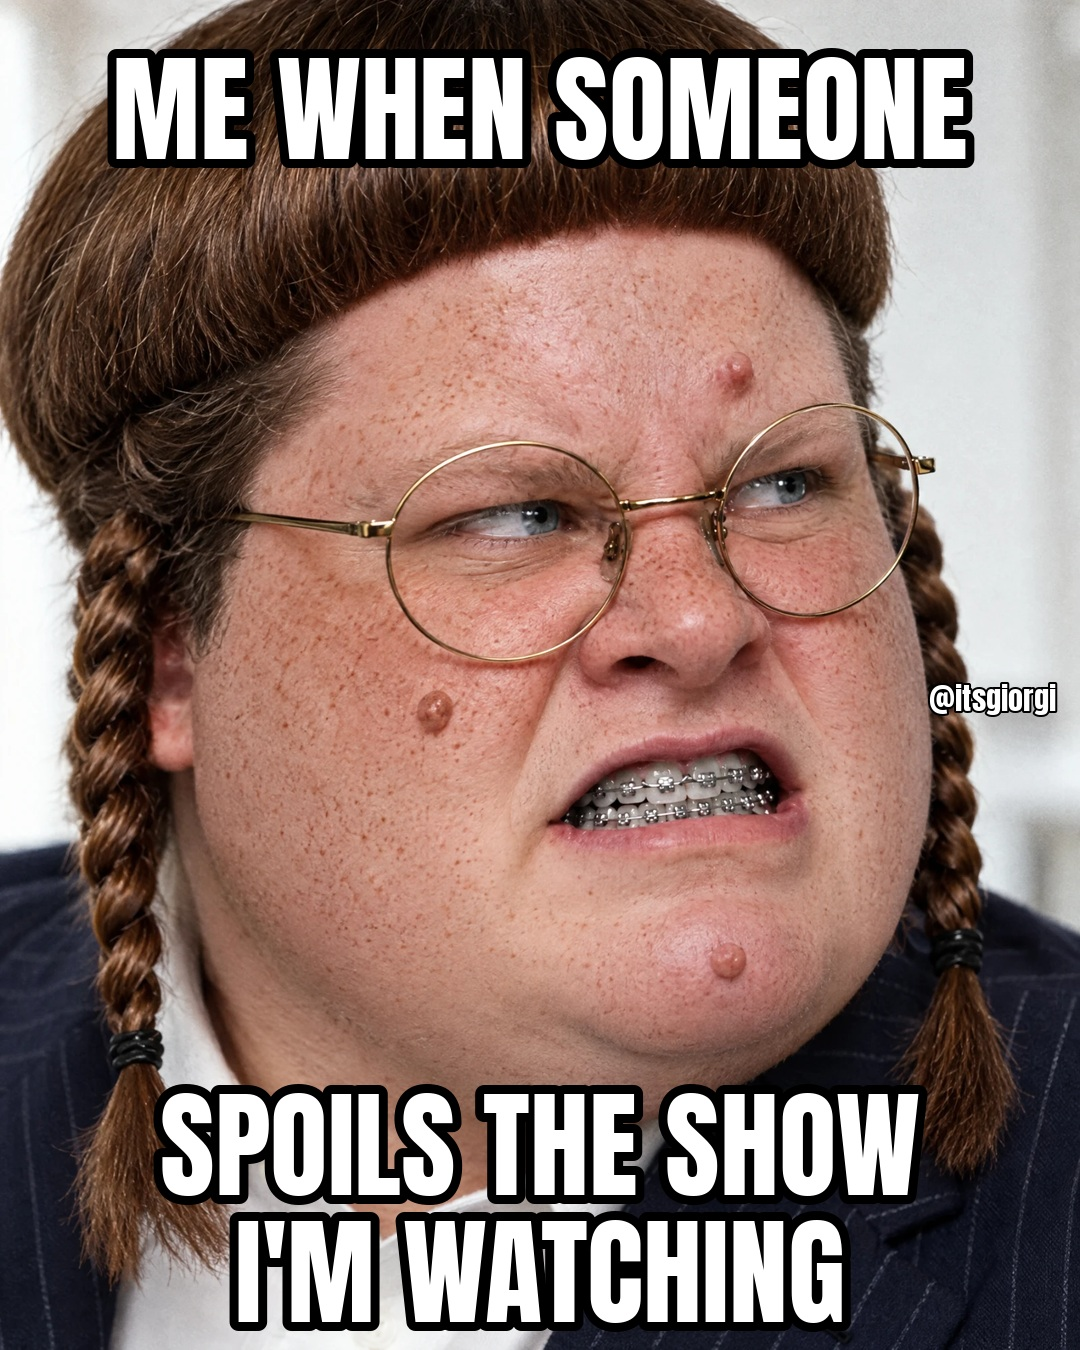
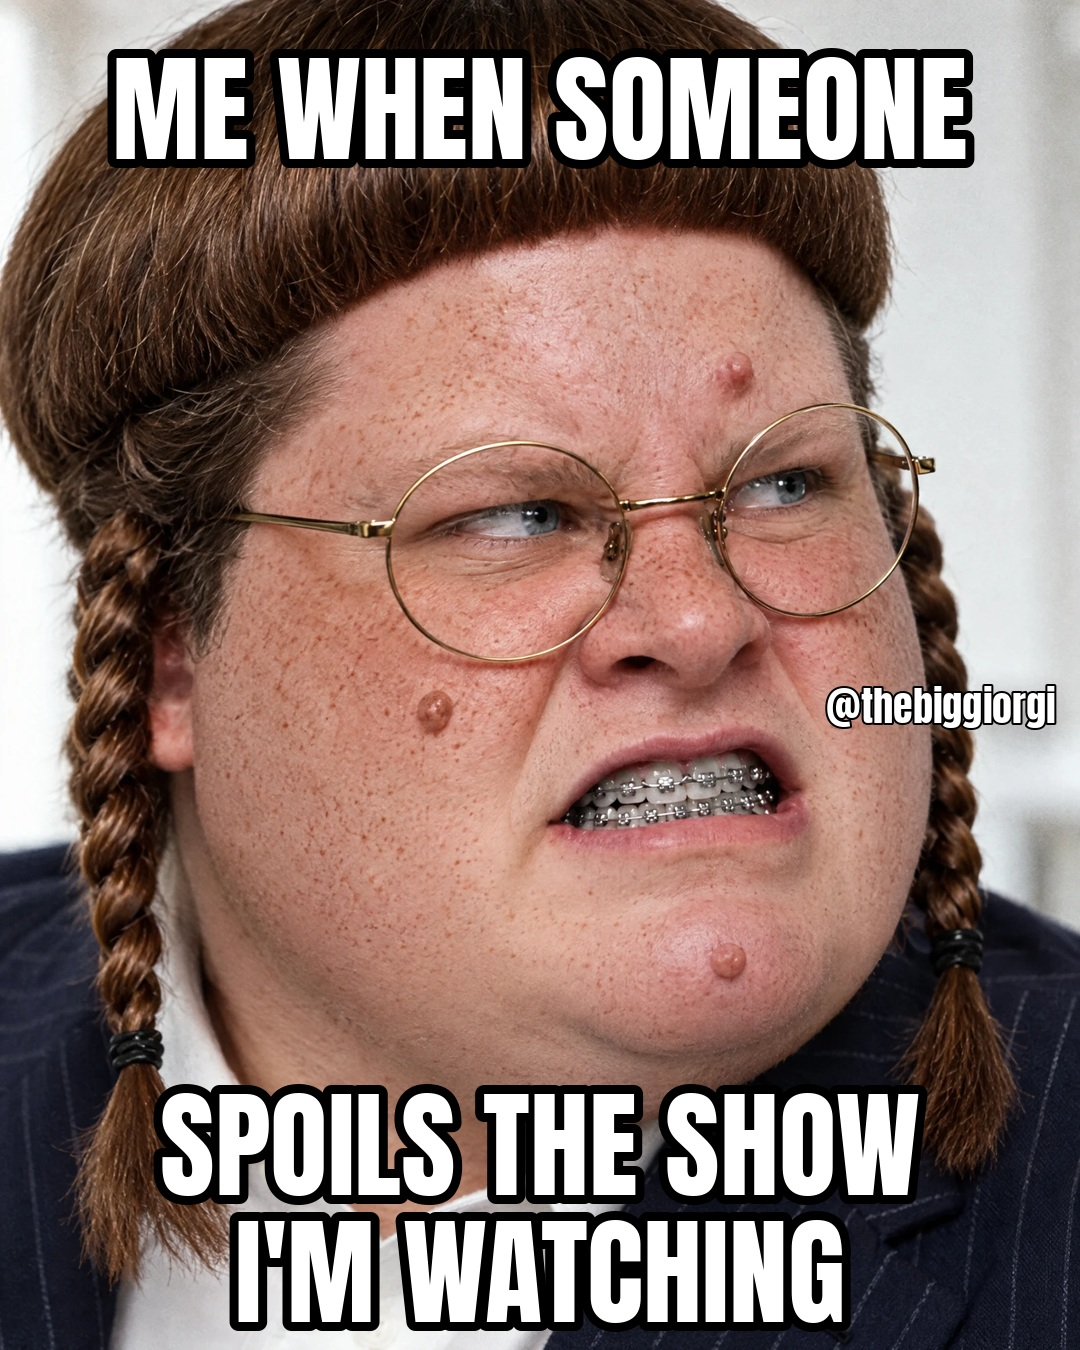
Brand everything with real handle @thebiggiorgi; re-render memes with larger watermark
Claude-Session: https://claude.ai/code/session_01TriShXgxyxaJHJsWouDZEj

Changed region(s): [[0.7639, 0.4978, 0.9778, 0.56]]

diff --git a/icon/tools/meme_post.py b/icon/tools/meme_post.py
@@ -1,7 +1,7 @@
 #!/usr/bin/env python3
 """Classic meme post: white caption bar on top + image below, 1080x1350 (IG 4:5), small handle watermark.
 Usage:
-  meme_post.py IMAGE "top line" OUT.jpg [--handle @itsgiorgi]
+  meme_post.py IMAGE "top line" OUT.jpg [--handle @thebiggiorgi]
   meme_post.py --batch captions.json IN_DIR OUT_DIR      # captions.json: {"1.png": "line", ...}
 """
 import json, os, sys
@@ -26,7 +26,7 @@ def wrap(draw, text, font, maxw):
     return lines
 
 
-def make(img_path, text, out, handle="@itsgiorgi"):
+def make(img_path, text, out, handle="@thebiggiorgi"):
     font = ImageFont.truetype(FONT, SIZE)
     probe = ImageDraw.Draw(Image.new("RGB", (W, 10)))
     lines = wrap(probe, text, font, W - 2 * PAD_X)
@@ -63,7 +63,7 @@ def make(img_path, text, out, handle="@itsgiorgi"):
 
 if __name__ == "__main__":
     a = sys.argv[1:]
-    handle = "@itsgiorgi"
+    handle = "@thebiggiorgi"
     if "--handle" in a:
         i = a.index("--handle"); handle = a[i + 1]; del a[i:i + 2]
     if a and a[0] == "--batch":

diff --git a/icon/tools/meme_classic.py b/icon/tools/meme_classic.py
@@ -59,14 +59,14 @@ def draw_block(d, text, top):
         y += lh
 
 
-def make(src, top, bottom, out, handle="@itsgiorgi"):
+def make(src, top, bottom, out, handle="@thebiggiorgi"):
     im = Image.open(src).convert("RGB")
     im = im.resize((W, round(im.height * W / im.width)), Image.LANCZOS)
     d = ImageDraw.Draw(im)
     draw_block(d, top, True)
     draw_block(d, bottom, False)
     if handle:
-        hf = ImageFont.truetype(FONT, 30)
+        hf = ImageFont.truetype(FONT, 40)
         tw = d.textlength(handle, font=hf)
         d.text((W - tw - 24, im.height // 2), handle, font=hf, fill=(255, 255, 255),
                stroke_width=2, stroke_fill=(0, 0, 0))

diff --git a/icon/memes/README.md b/icon/memes/README.md
@@ -18,19 +18,19 @@ QC (checked visually): the same Giorgi in all 9 (bowl cut, braids, warts, freckl
 Cost: ~12.4 credits (9 × high/2k).
 
 ## How to use them
-- **Meme templates:** post each one as a blank template with "use this, tag @itsgiorgi". Other meme pages reusing it is the growth engine (the "movement" angle).
+- **Meme templates:** post each one as a blank template with "use this, tag @thebiggiorgi". Other meme pages reusing it is the growth engine (the "movement" angle).
 - **Reaction posts:** Giorgi meme + a relatable caption line on top (classic meme format). Shares go up.
 - **Carousel:** "Giorgi replaced every meme" (all 9 in one post). Saves and shares go up.
 
 ## Classic meme posts (local, no Higgsfield)
-`icon/tools/meme_post.py` builds a 1080×1350 post: white top bar, one black Montserrat ExtraBold line, image cover-fit below, `@itsgiorgi` watermark bottom-right.
+`icon/tools/meme_post.py` builds a 1080×1350 post: white top bar, one black Montserrat ExtraBold line, image cover-fit below, `@thebiggiorgi` watermark bottom-right.
 Captions for the 9 images: `captions.json`. Once the 9 images are saved as `1.png` … `9.png` in a folder:
 ```bash
 python3 icon/tools/meme_post.py --batch icon/memes/captions.json IN_DIR icon/memes/posts
 ```
 
 ## Classic viral memes (batch 1, final)
-`icon/memes/classic/01…09.jpg`: Impact-style (Anton) white text with black outline, top and bottom, on the image itself. Original aspect ratio at 1080 wide, small `@itsgiorgi` watermark.
+`icon/memes/classic/01…09.jpg`: Impact-style (Anton) white text with black outline, top and bottom, on the image itself. Original aspect ratio at 1080 wide, small `@thebiggiorgi` watermark.
 Built locally with `icon/tools/meme_classic.py --batch icon/memes/classic.json icon/memes/src icon/memes/classic`. Lines auto-size and balance across lines.
 
 | # | Meme | Top | Bottom |

diff --git a/icon/GIORGI_BIBLE.md b/icon/GIORGI_BIBLE.md
@@ -11,7 +11,7 @@ Inspiration: the "lovable outsider" archetype of 2000s pop culture (the Austin P
 
 | Token | Spec (paste word-for-word in every prompt) |
 |---|---|
-| Name / handle | **Giorgi** · `@itsgiorgi` (backups: `@giorgi.dumpling`, `@giorgi.bro`) |
+| Name / handle | **Giorgi** · `@thebiggiorgi` (display name: THE BIG GIORGI) |
 | Backstory | **none, by design.** He just exists. Never explain where he's from. The mystery fuels the comments. |
 | Age | adult (30s) |
 | Body | very heavy-set, round belly, short chubby legs, average height |
@@ -98,11 +98,11 @@ Bal Harbour Shops · Ocean Drive · Art Basel booth · Monaco yacht deck · a Pa
 
 ## 8. Bio + caption bank (LOCKED signature)
 
-**Bio (Instagram). Line 1 is the exact text the Higgsfield campaign requires, so never edit it:**
+**Bio (Instagram, LIVE as of Oct 9):** @thebiggiorgi · display name THE BIG GIORGI
 ```
+I love Cheetos
 made with @higgsfield.ai
-Giorgi. AI. 5'4" of pure aura 👟🚨
-Dumpling, bro. 🥟
+📧 omyaagency@gmail.com
 ```
 TikTok (80 chars): `AI. 5'4" of pure aura 👟 Dumpling, bro. 🥟`
 
